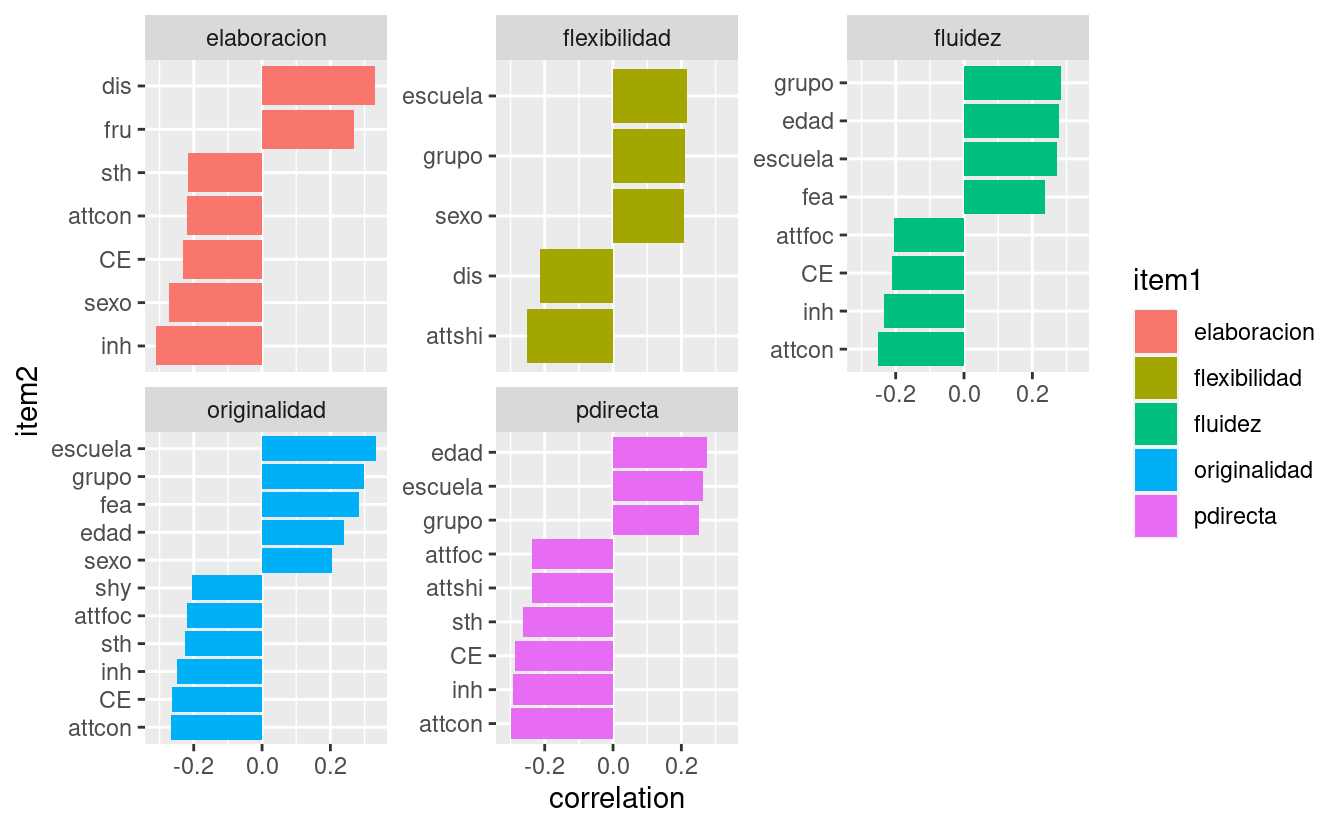
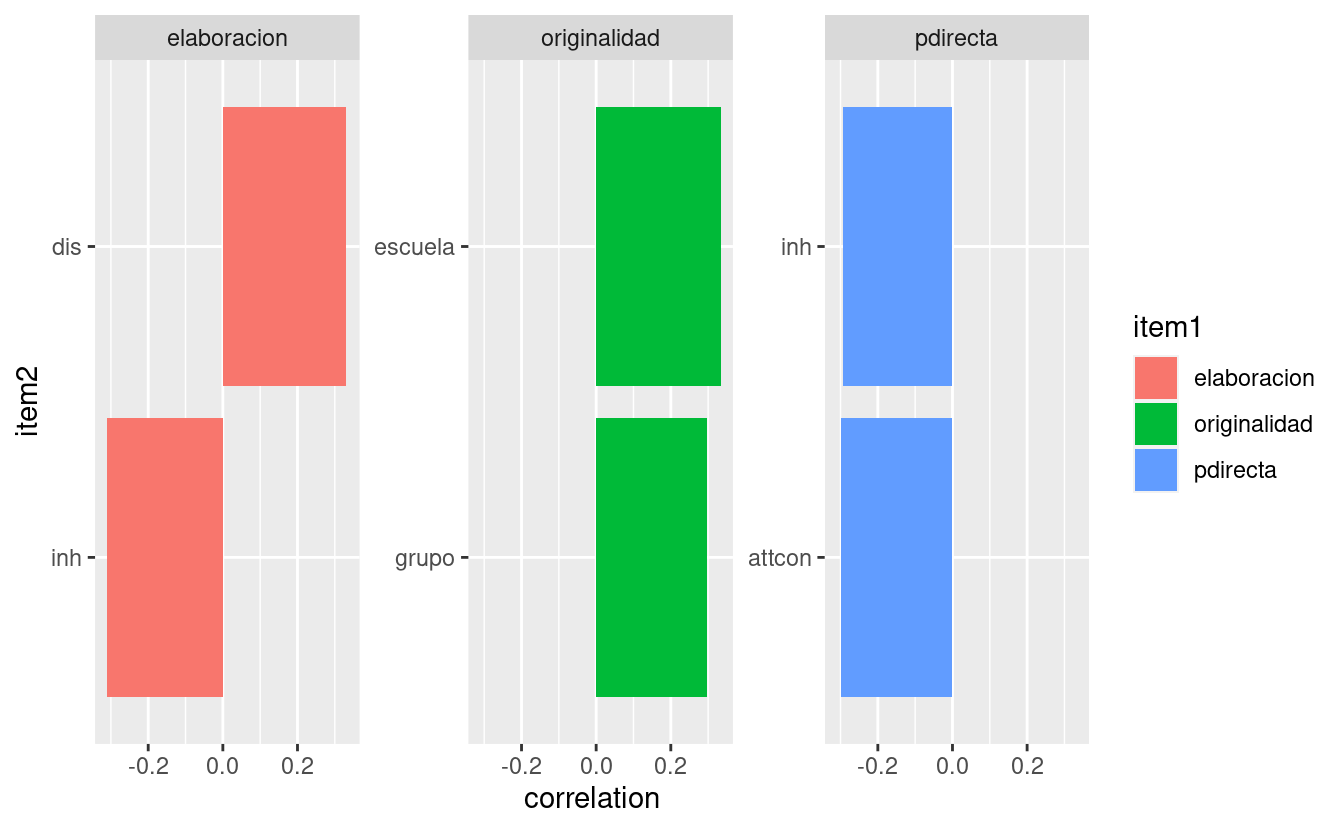
site update

diff --git a/docs/_site/2022/09/06/totales-torrance/index.html b/docs/_site/2022/09/06/totales-torrance/index.html
@@ -76,42 +76,47 @@
     <div class="article-content">
       <h1 id="totals-in-torrance">TOTALS IN TORRANCE</h1>
 <h1 id="correlation-matrix">Correlation Matrix</h1>
-<p>Only significant, p &lt; 0.05, correlations</p>
+<h2 id="notas">Notas</h2>
+<ul>
+<li>
+<p>Only Marginaly significant, p &lt; 0.1, correlations</p>
 <div class="highlight">
-<pre class='chroma'><code class='language-r' data-lang='r'><span><span class='c'>#&gt;            originalidad    fluidez elaboracion flexibilidad   pdirecta</span></span>
-<span><span class='c'>#&gt; CE           -0.2623397 -0.2114765  -0.2319202           NA -0.2873956</span></span>
-<span><span class='c'>#&gt; AN                   NA         NA          NA           NA         NA</span></span>
-<span><span class='c'>#&gt; SU                   NA         NA          NA           NA         NA</span></span>
-<span><span class='c'>#&gt; act                  NA         NA          NA           NA         NA</span></span>
-<span><span class='c'>#&gt; fru                  NA         NA   0.2693739           NA         NA</span></span>
-<span><span class='c'>#&gt; app                  NA         NA          NA           NA         NA</span></span>
-<span><span class='c'>#&gt; attfoc       -0.2202071 -0.2059690          NA           NA -0.2374962</span></span>
-<span><span class='c'>#&gt; attshi               NA         NA          NA   -0.2523904 -0.2385132</span></span>
-<span><span class='c'>#&gt; attcon       -0.2652232 -0.2509161  -0.2209377           NA -0.2997329</span></span>
-<span><span class='c'>#&gt; dis                  NA         NA   0.3292718   -0.2147124         NA</span></span>
-<span><span class='c'>#&gt; sth          -0.2253470         NA  -0.2167063           NA -0.2630455</span></span>
-<span><span class='c'>#&gt; fea           0.2843426  0.2379703          NA           NA         NA</span></span>
-<span><span class='c'>#&gt; hip                  NA         NA          NA           NA         NA</span></span>
-<span><span class='c'>#&gt; imp                  NA         NA          NA           NA         NA</span></span>
-<span><span class='c'>#&gt; inh          -0.2490485 -0.2347775  -0.3101759           NA -0.2929208</span></span>
-<span><span class='c'>#&gt; lip                  NA         NA          NA           NA         NA</span></span>
-<span><span class='c'>#&gt; per                  NA         NA          NA           NA         NA</span></span>
-<span><span class='c'>#&gt; sad                  NA         NA          NA           NA         NA</span></span>
-<span><span class='c'>#&gt; shy          -0.2044280         NA          NA           NA         NA</span></span>
-<span><span class='c'>#&gt; smi                  NA         NA          NA           NA         NA</span></span>
-<span><span class='c'>#&gt; escuela       0.3342620  0.2719163          NA    0.2172832  0.2636171</span></span>
-<span><span class='c'>#&gt; grupo         0.2981489  0.2840822          NA    0.2106177  0.2501755</span></span>
-<span><span class='c'>#&gt; edad          0.2398332  0.2768105          NA           NA  0.2742450</span></span>
-<span><span class='c'>#&gt; sexo          0.2038745         NA  -0.2721537    0.2068457         NA</span></span>
-<span><span class='c'>#&gt; percentil            NA         NA          NA           NA         NA</span></span>
-<span><span class='c'>#&gt; rango                NA         NA          NA           NA         NA</span></span>
-<span><span class='c'>#&gt; columna_a            NA         NA          NA           NA         NA</span></span>
-<span><span class='c'>#&gt; columna_ab           NA         NA          NA           NA         NA</span></span>
-<span><span class='c'>#&gt; columna_b            NA         NA          NA           NA         NA</span></span>
-<span><span class='c'>#&gt; puntaje              NA         NA          NA           NA         NA</span></span></code></pre>
+<pre class='chroma'><code class='language-r' data-lang='r'><span><span class='c'>#&gt;            originalidad fluidez elaboracion flexibilidad   pdirecta</span></span>
+<span><span class='c'>#&gt; CE                   NA      NA          NA           NA         NA</span></span>
+<span><span class='c'>#&gt; AN                   NA      NA          NA           NA         NA</span></span>
+<span><span class='c'>#&gt; SU                   NA      NA          NA           NA         NA</span></span>
+<span><span class='c'>#&gt; act                  NA      NA          NA           NA         NA</span></span>
+<span><span class='c'>#&gt; fru                  NA      NA          NA           NA         NA</span></span>
+<span><span class='c'>#&gt; app                  NA      NA          NA           NA         NA</span></span>
+<span><span class='c'>#&gt; attfoc               NA      NA          NA           NA         NA</span></span>
+<span><span class='c'>#&gt; attshi               NA      NA          NA           NA         NA</span></span>
+<span><span class='c'>#&gt; attcon               NA      NA          NA           NA -0.2997329</span></span>
+<span><span class='c'>#&gt; dis                  NA      NA   0.3292718           NA         NA</span></span>
+<span><span class='c'>#&gt; sth                  NA      NA          NA           NA         NA</span></span>
+<span><span class='c'>#&gt; fea                  NA      NA          NA           NA         NA</span></span>
+<span><span class='c'>#&gt; hip                  NA      NA          NA           NA         NA</span></span>
+<span><span class='c'>#&gt; imp                  NA      NA          NA           NA         NA</span></span>
+<span><span class='c'>#&gt; inh                  NA      NA  -0.3101759           NA -0.2929208</span></span>
+<span><span class='c'>#&gt; lip                  NA      NA          NA           NA         NA</span></span>
+<span><span class='c'>#&gt; per                  NA      NA          NA           NA         NA</span></span>
+<span><span class='c'>#&gt; sad                  NA      NA          NA           NA         NA</span></span>
+<span><span class='c'>#&gt; shy                  NA      NA          NA           NA         NA</span></span>
+<span><span class='c'>#&gt; smi                  NA      NA          NA           NA         NA</span></span>
+<span><span class='c'>#&gt; escuela       0.3342620      NA          NA           NA         NA</span></span>
+<span><span class='c'>#&gt; grupo         0.2981489      NA          NA           NA         NA</span></span>
+<span><span class='c'>#&gt; edad                 NA      NA          NA           NA         NA</span></span>
+<span><span class='c'>#&gt; sexo                 NA      NA          NA           NA         NA</span></span>
+<span><span class='c'>#&gt; percentil            NA      NA          NA           NA         NA</span></span>
+<span><span class='c'>#&gt; rango                NA      NA          NA           NA         NA</span></span>
+<span><span class='c'>#&gt; columna_a            NA      NA          NA           NA         NA</span></span>
+<span><span class='c'>#&gt; columna_ab           NA      NA          NA           NA         NA</span></span>
+<span><span class='c'>#&gt; columna_b            NA      NA          NA           NA         NA</span></span>
+<span><span class='c'>#&gt; puntaje              NA      NA          NA           NA         NA</span></span></code></pre>
 </div>
+</li>
+</ul>
 <h1 id="p-values-matrix">P-values Matrix</h1>
-<p>all p-values</p>
+<p>All p-values</p>
 <div class="highlight">
 <pre class='chroma'><code class='language-r' data-lang='r'><span><span class='c'>#&gt;            originalidad   fluidez elaboracion flexibilidad   pdirecta</span></span>
 <span><span class='c'>#&gt; CE           0.14024174 0.2374370  0.19404659    0.5588499 0.10486208</span></span>
